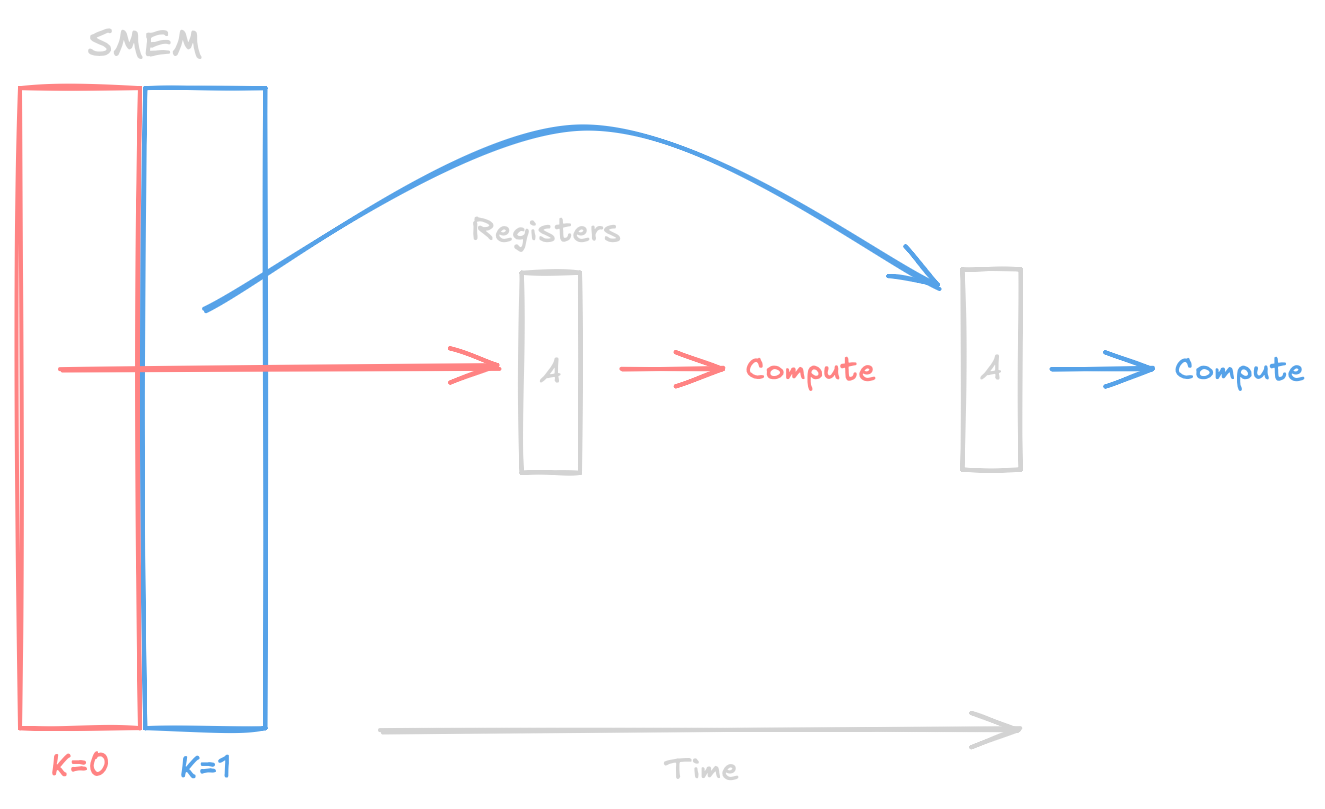
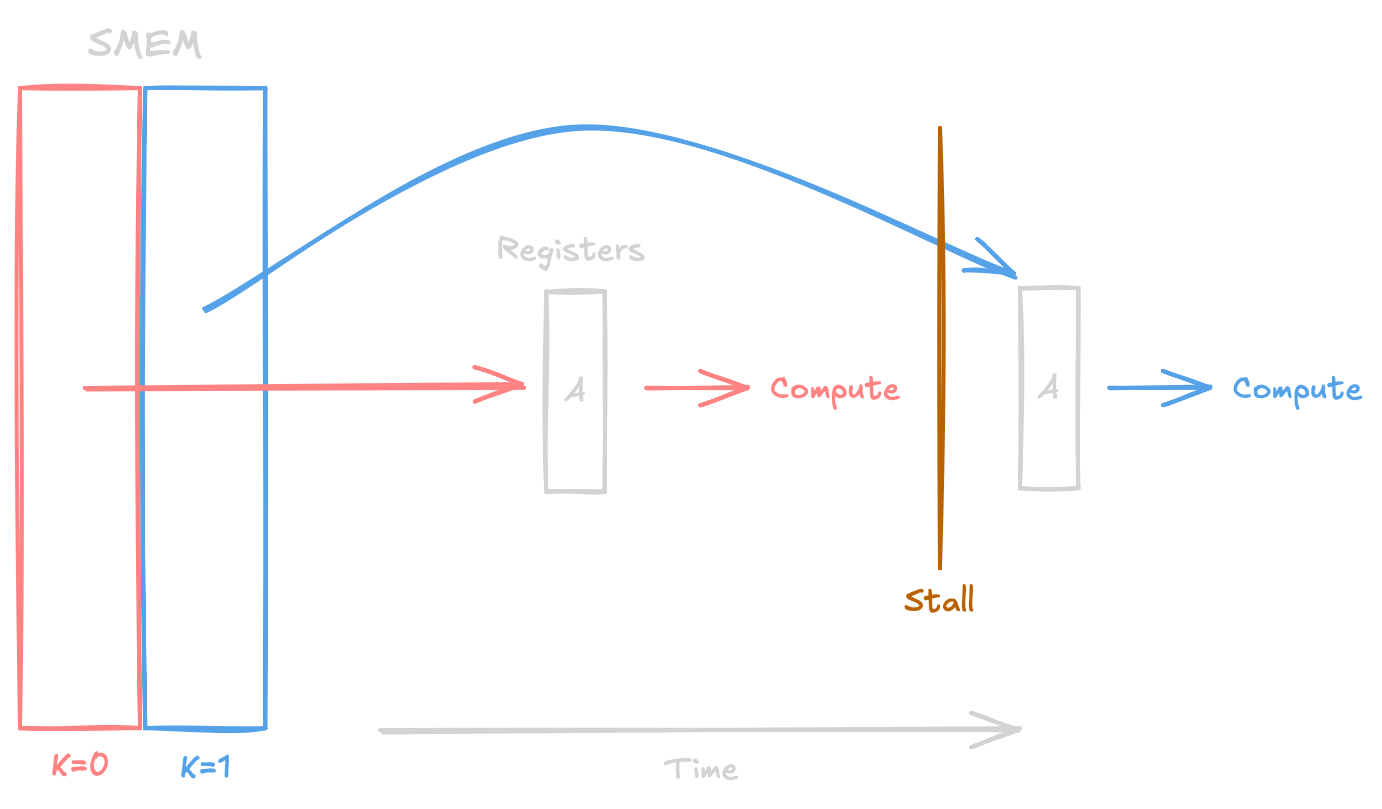
changes

diff --git a/content/posts/sm86_sgemm.md b/content/posts/sm86_sgemm.md
@@ -1,15 +1,17 @@
 ---
-title: "CuTe-ly writing an SM86 fp32fp32 GEMM"
+title: "CuTe-ly writing an SM86 SGEMM"
 date: 2026-02-05
 comment: true
 tags: ["CUDA", "C++", "GPU"]
 ---
 
-I know what you're thinking. A `fp32fp32` GEMM in 2026? For Ampere??
+I know what you're thinking. A `fp32` GEMM in 2026? For Ampere??
 
 Yes, SGEMM is rarely ever used these days in the ML space given the massive compute throughput gap between CUDA and tensor cores. For reference, an A100 PCIe's (now almost 6 years old) peak theoretical performance for `bf16` is 312 TFLOPs/sec. and 156 TFLOPs/sec. for `tf32`, while `fp32` sits at a "measly" 19.5 TFLOPs/sec. With [mixed-precision](https://docs.nvidia.com/deeplearning/performance/mixed-precision-training/index.html) training and quantized inference being the norm, GEMM itself is practically never done in `fp32` today.
 
-*Despite* all of these (good) reasons, SGEMM still acts as a great learning experience for squeezing the most performance out of GPUs (without involving tensor cores, of course). In this blogpost, I will briefly go over the structure of GEMM and iteratively work through how I optimized a kernel using [NVIDIA's CUTLASS CuTe](https://github.com/NVIDIA/cutlass/tree/main) library to match/exceed cuBLAS on *certain* problem shapes on SM86 using my personal RTX 3070 Mobile card. Fair warning though: this will not only attempt to serve as a lesson on optimizing a kernel but also on using CuTe, as I found it to be a pretty big help when trying to iterate quickly on kernels, although I know some are not the biggest fans of it...
+*Despite* all of these (good) reasons, SGEMM still acts as a great learning experience for squeezing the most performance out of GPUs (without involving tensor cores, of course). In this blogpost, I will briefly go over the structure of GEMM and iteratively work through how I optimized a kernel using [NVIDIA's CUTLASS CuTe](https://github.com/NVIDIA/cutlass/tree/main) library to match/exceed cuBLAS on *certain* problem shapes on SM86 using my personal RTX 3070 Mobile card.
+
+Disclaimer: this post will be for those relatively new to GPU programming.
 
 ## a brief intro on GEMMs
 Large and square-ish GEMM (general matrix-multiply) routines are embarrassingly parallel and compute-bound. GPUs being massively parallel SIMT processors, they are the ideal hardware to run such algorithms on quickly. 
@@ -17,7 +19,7 @@ Large and square-ish GEMM (general matrix-multiply) routines are embarrassingly 
 > [!NOTE] A Simplified Model
 > To see why large GEMMs are compute-bound, consider an SGEMM $C = AB$ of shape $2048 \times 2048 \times 2048$.
 > 
-> Simplifying the memory operations to loading $A, B$ once and storing to $C$ once from/to DRAM, this results in $(2048^2 \times 3) \times 4$ bytes of movement required. The arithmetic intensity (AI) required can be computed with $2 \times M \times N \times K$, as $K$ inner products & accumulations (using FMA) are required along both $M$ and $N$ axes and dividing by the bytes of memory moved. Thus, the AI is $\frac{2(2048^3)}{3(4)(2048^2)} \approx 341$ FLOPs/byte.
+> Simplifying the memory operations to loading $A, B$ once and storing to $C$ once from/to DRAM, this results in $(2048^2 \times 3) \times 4$ bytes of movement required. The arithmetic intensity (AI) required can be computed with $2 \times M \times N \times K$, as $K$ inner products & accumulations (using `FMA`) are required along both $M$ and $N$ axes and dividing by the bytes of memory moved. Thus, the AI is $\frac{2(2048^3)}{3(4)(2048^2)} \approx 341$ FLOPs/byte.
 > 
 > Now, mapping to hardware, we use the A100 PCIe 80 GB. as an example, which has an off-chip DRAM bandwidth of $1.94$ TFLOPs/sec. and peak `fp32` performance of $19.49$ TFLOPs/sec. Theoretically, with no compute roof, DRAM could allow us a blistering $1.94 \frac{\text{TB.}}{\text{sec.}} \times 341 \frac{\text{FLOPs}}{\text{byte}} \approx 661 \frac{\text{TFLOPs}}{\text{sec.}}$. However, since the underlying `fp32` ALUs are capped at $19.49$ TFLOPs/sec., we are compute-bound. Note that in reality, we will almost never reach either of these roofs, as we will later see. 
 > ![roofline diagram](/images/posts/sm86_gemm/roofline-dark.png "an example roofline diagram with an `fp32` ridge point (not to scale)")
@@ -79,8 +81,9 @@ for (int m = 0; m < thread_M; ++m) {
 
 Unfortunately for us, Ampere does not have such features. The closest equivalent are the `cp.async` family of instructions, which allow a warp to asynchronously transfer memory from DRAM to SMEM (one-way), bypassing the registerfile without blocking. Note that `cp.async` requires every thread in a block to cooperatively load a tile into SMEM, unlike TMA. Still, this instruction will come in handy, as we can asynchronously load the next tile of data into a circular SMEM buffer while the current tile is being processed to keep compute units busy. 
 
-We use a similar pipelining technique when moving data to the registerfile from SMEM. We allocate 2 "$K$-slices" worth of operand data (or as we will call them &mdash; blocks) from $A, B$ and have each register-backed buffer ping-pong between compute and reading the next blocks from SMEM. This diagram from NVIDIA outlines the approach well:
+We use a similar pipelining technique when moving data to the registerfile from SMEM. We allocate 2 "$K$-slices" worth of operand data (or as we will call them &mdash; blocks) from $A, B$ and have each register-backed buffer ping-pong between compute and reading the next blocks from SMEM (more in-depth discussion later). This diagram from NVIDIA outlines the approach well:
 
+<a id="software-pipeline"></a>
 ![pipeline diagram](/images/posts/sm86_gemm/software-pipeline.jpg)
 
 ## host-side setup
@@ -202,7 +205,7 @@ Corresponding each term to what we saw, we see that this tiled copy uses 256 thr
 
 Lastly, we set up a `TiledMMA` object, which assigns threads to values for matrix-multiply accumulation (MMA). Similar to `TiledCopy`, it takes an `MMA_Trait` wrapping an `MMA_Atom`, which defines the smallest "unit" of computation to be tiled. This allows for easy partitioning of the operand $A$ and $B$ matrices and register allocation for the product $C$ fragment. Since our operands are in `fp32`, which don't have tensor core support, we use the `UniversalFMA<float>` atom here. But, for example, if our operands were to be in half-precision, we'd want to use an atom like `SM80_16x8x16_F16F16F16F16_TN` that wraps a tensor core (TC) instruction.
 
-Each of these atoms intrinsically involve a different number of threads. For FMA, it's just 1 thread performing a scalar computation. Ampere TC instructions are at warp-level; they require a warp to cooperatively compute a small matrix product, while Hopper TCs involve a warpgroup (4 warps) and so on. We'll focus on the simple FMA case.
+Each of these atoms intrinsically involve a different number of threads. For `FMA`, it's just 1 thread performing a scalar computation. Ampere TC instructions are at warp-level; they require a warp to cooperatively compute a small matrix product, while Hopper TCs involve a warpgroup (4 warps) and so on. We'll focus on the simple `FMA` case.
 
 Suppose that after we've done some tuning, we decide to use 256 threads in our kernel. Of course, writing a kernel for first time, you wouldn't know the optimal number of threads, but 128 or 256 threads tend to be good starting points for GEMMs. With each thread computing 1 scalar fragment of $C$, a threadblock of 256 threads can independently compute 256 $C$ values "per atom". For simplicity (and other reasons we'll later see), we'll arrange the atom's 256 values to compute a $(16 \times 16)$ fragment of $C$.
 
@@ -232,7 +235,7 @@ auto thrfrg_C(CTensor&& ctensor) const {
     ...
 }
 ```
-We see that there is exactly 1 thread and 1 value local to the MMA atom, and 16 threads tiled in the M- and N-modes. To cover the entire product, there then must be 8 values tiled in the M- and N-modes too, meaning the $C$ fragment alone requires 64&times; 32-bit registers per thread. Let's look at `thrfrg_A` now:
+We see that there is exactly 1 thread and 1 value local to the MMA atom, and 16 threads tiled in the M- and N-modes. To cover the entire threadblock tile, there then must be 8 values tiled in the M- and N-modes too, meaning the $C$ fragment alone requires 64&times; 32-bit registers per thread. That is, each thread is computing an $(8 \times 8)$ outer product. Let's look at `thrfrg_A` now:
 
 $$((1,(16,1)),(1,(8,32,3)))$$
 
@@ -274,8 +277,40 @@ auto tBsB = tB.partition_D(sB);
 We then setup the shared memory tensors from a single buffer, and partition the source and destination tensors for each thread based on the `TiledCopy` objects we discussed earlier. Printing `tAsA.shape` from any thread gives us $(4, 1), 1, 4, 3$. We can see that this is exactly what we saw from `tidfrg_D`, but without mode-0, since we've now sliced that tensor to get the thread-local partition. Similarly, `tAgA.shape` prints $(4, 1), 1, 4, 32$ when $K = 1024$, as $\frac{1024}{\text{Tile K}} = 32$ (mode-3 represents values tiled across $K$).
 
 ```c++
-
+using blockPipes = _2;  // num. of block buffers
+...
+auto tC = tiled_mma.get_thread_slice(threadIdx.x);
+auto tCsA = tC.partition_A(sA);
+auto tCsB = tC.partition_B(sB);
+auto tCgC = tC.partition_C(gC);
+auto tCrA = make_fragment_like(composition(tCsA(_,_,_,0), make_shape(_,_,blockPipes{})));
+auto tCrB = make_fragment_like(composition(tCsB(_,_,_,0), make_shape(_,_,blockPipes{})));
+auto tCrC = make_fragment_like(tCgC);
+fill(tCrC, 0.0);
 ```
+
+Last component for the setup is now setting up the thread-local MMA registers. `TiledMMA` already gave us a thread-value mapping for $A$, $B$, and $C$, so we just need to slice out each thread-local view and partition the input tensors. Notice that `gC` is referring to the *global memory* pointer for $C$, since we're not tiling it into SMEM, only $A$ and $B$.
+
+You may be asking what this is doing: `composition(tCsA(_,_,_,0), make_shape(_,_,blockPipes{}))`. Recall the pipelining diagram from [before](#software-pipeline), and how each thread owns all of its K-mode. Ideally, we want each thread to begin its load for the next "slice" of its K-mode from SMEM *while* doing compute on this current slice to save some cycles. The cost though is that we require more registers to eliminate the potential scoreboard stall.
+
+> [!NOTE]+ Scoreboard
+> In CUDA, the scoreboard is a memory dependency tracking system. It dynamically ensures that instructions that depend on some overlapping memory run in an order that preserves correctness (more on this from [Modal](https://modal.com/gpu-glossary/perf/scoreboard-stall)). Consider this pseudocode:
+> ```c++
+> // single register
+> float a_reg, b_reg;
+> for (k = 0 ... Tile K) {
+>     a_reg = sA[k];  // LDS
+>     b_reg = sB[k];  // LDS
+>     c += a_reg * b_reg;  // FMA (stalls until LDS completes)
+> }
+> ```
+> Because the `FMA` on any iteration reads from the same registers that the `LDS` on that iteration writes to, a scoreboard dependency is created &mdash; the `FMA` stalls until both loads complete, despite the fact that they could run on independent hardware units on an SM (`LDS` on load/store units, `FMA` on CUDA cores). Visualizing this for one of the operands...
+> ![scoreboard1](/images/posts/sm86_gemm/scoreboard1.png "Due to the memory dependency between the K-tiles, the compiler cannot order `LDS` for $K = 1$ before or during `FMA`")
+> ![scoreboard2](/images/posts/sm86_gemm/scoreboard2.png "By allocating the second register block $B$, we can eliminate the dependency, allowing the compiler to interleave the `LDS` for the next tile with the `FMA` for the current tile. ")
+> 
+> Note we are at the mercy of the compiler here. It's up to us as the programmer to semantically express the dependency-free condition as clearly as possible and verify that the compiler has generated the correct SASS (nsight-compute is good for this). However, ptxas tends to be good at optimizing these kinds of common pipeline routines.
+> 
+> If you have some experience in CPU performance optimization, you're probably familiar with this kind of software pipelining. What this typically looks like is scheduling a high latency instruction prior to executing another independent instruction, so that the former does not hurt throughput and they can run on different hardware units. This enables what we call ILP (instruction-level parallelism) &mdash; attempting to exploit parallelism on an instruction-scheduling basis within each warp's instruction stream.
 
 ## mainloop
 We'll now implement the mainloop, where each threadblock loops over its K-tiles and accumulates its individual matrix product. We begin with a prefetch to avoid some extra conditional statements inside the loop.
@@ -305,7 +340,7 @@ We initialize some variables for tracking:
 
 In the prefetch loop, we fire off the loads for the first 2 out of 3 pipes. For each `copy` call, we glob the values local to a copy atom, values tiled across Tile M, and values tiled across Tile K by placing an underscore at those modes. We then copy this K-tile at position `gmem_tile_idx` to the corresponding pipe. Lastly, we decrement the number of K-tiles left to load, and only increment the K-tile position if there are more left. Otherwise, the next iteration simply loads the same global K-tile into the next pipe to prevent a segfault.
 
-> [!IMPORTANT] Async Copy
+> [!IMPORTANT]+ Async Copy
 > To use `cp.async` effectively, CuTe provides two key functions:
 > - `cp_async_fence()` wraps the `cp.async.commit_group` PTX instruction, which "commits all prior initiated but uncommitted `cp.async` instructions into a cp.async-group." (NVIDIA)
 >   - This is effectively a code barrier that allows us to create logical groups of loads, so that we can wait for certain groups to finish before doing some work, while intentionally allowing others to continue. 
